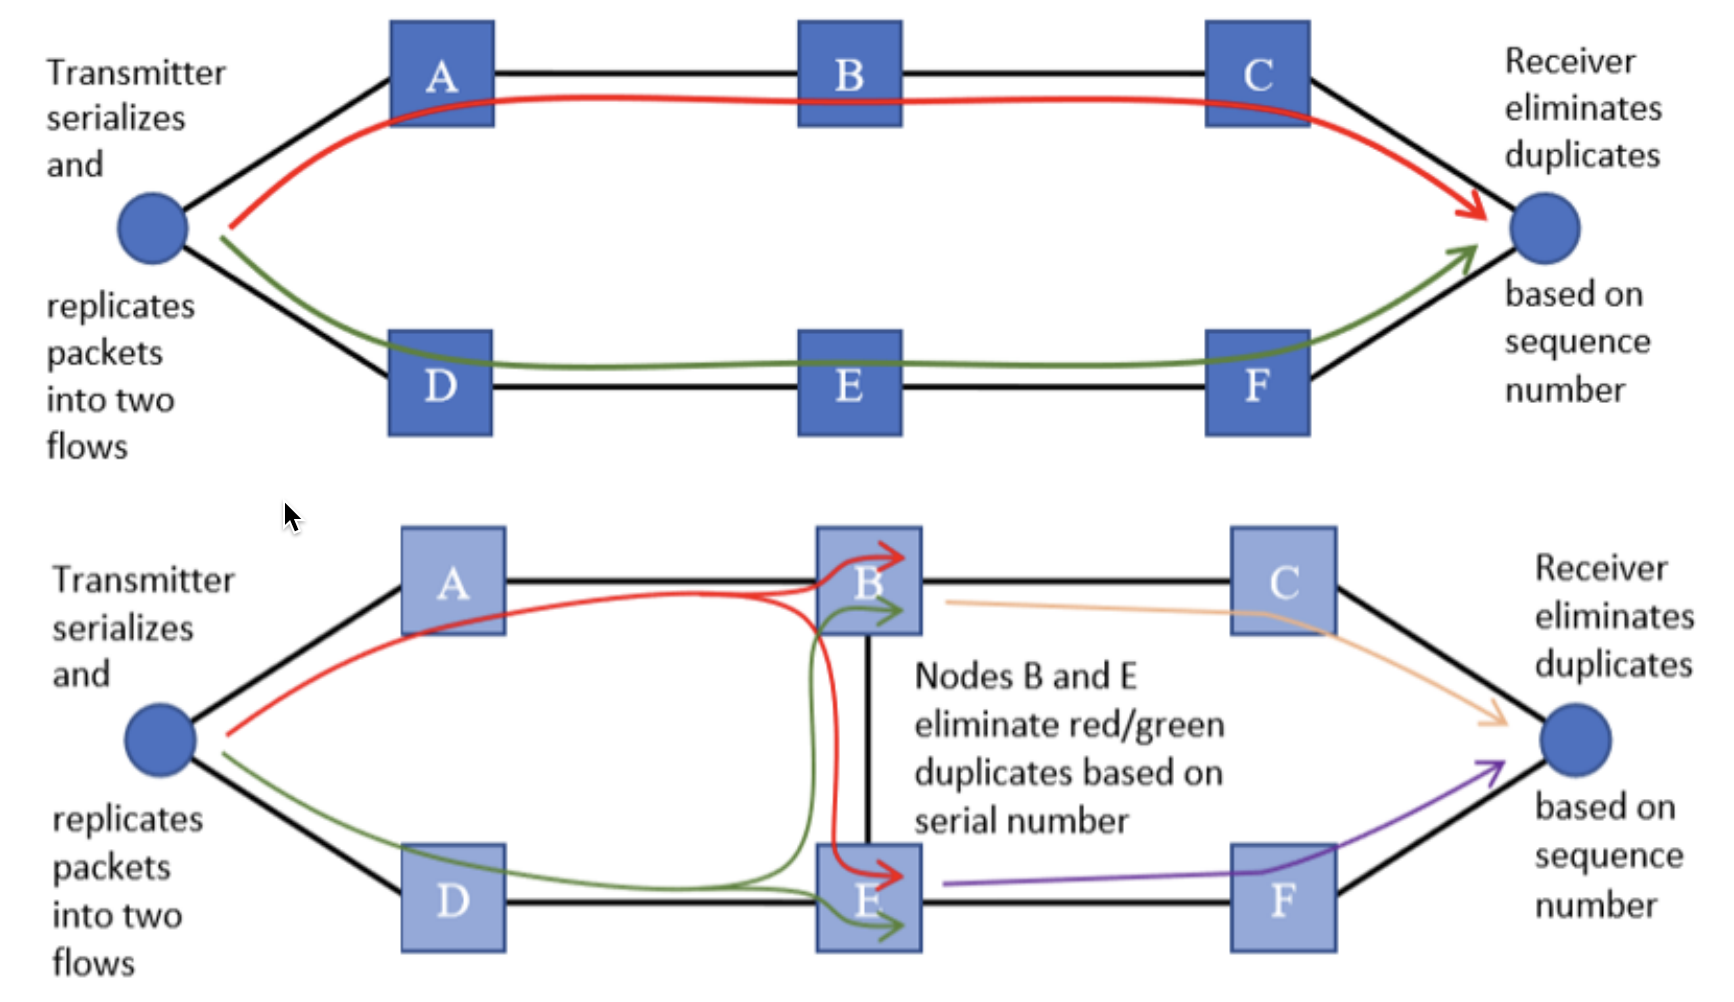
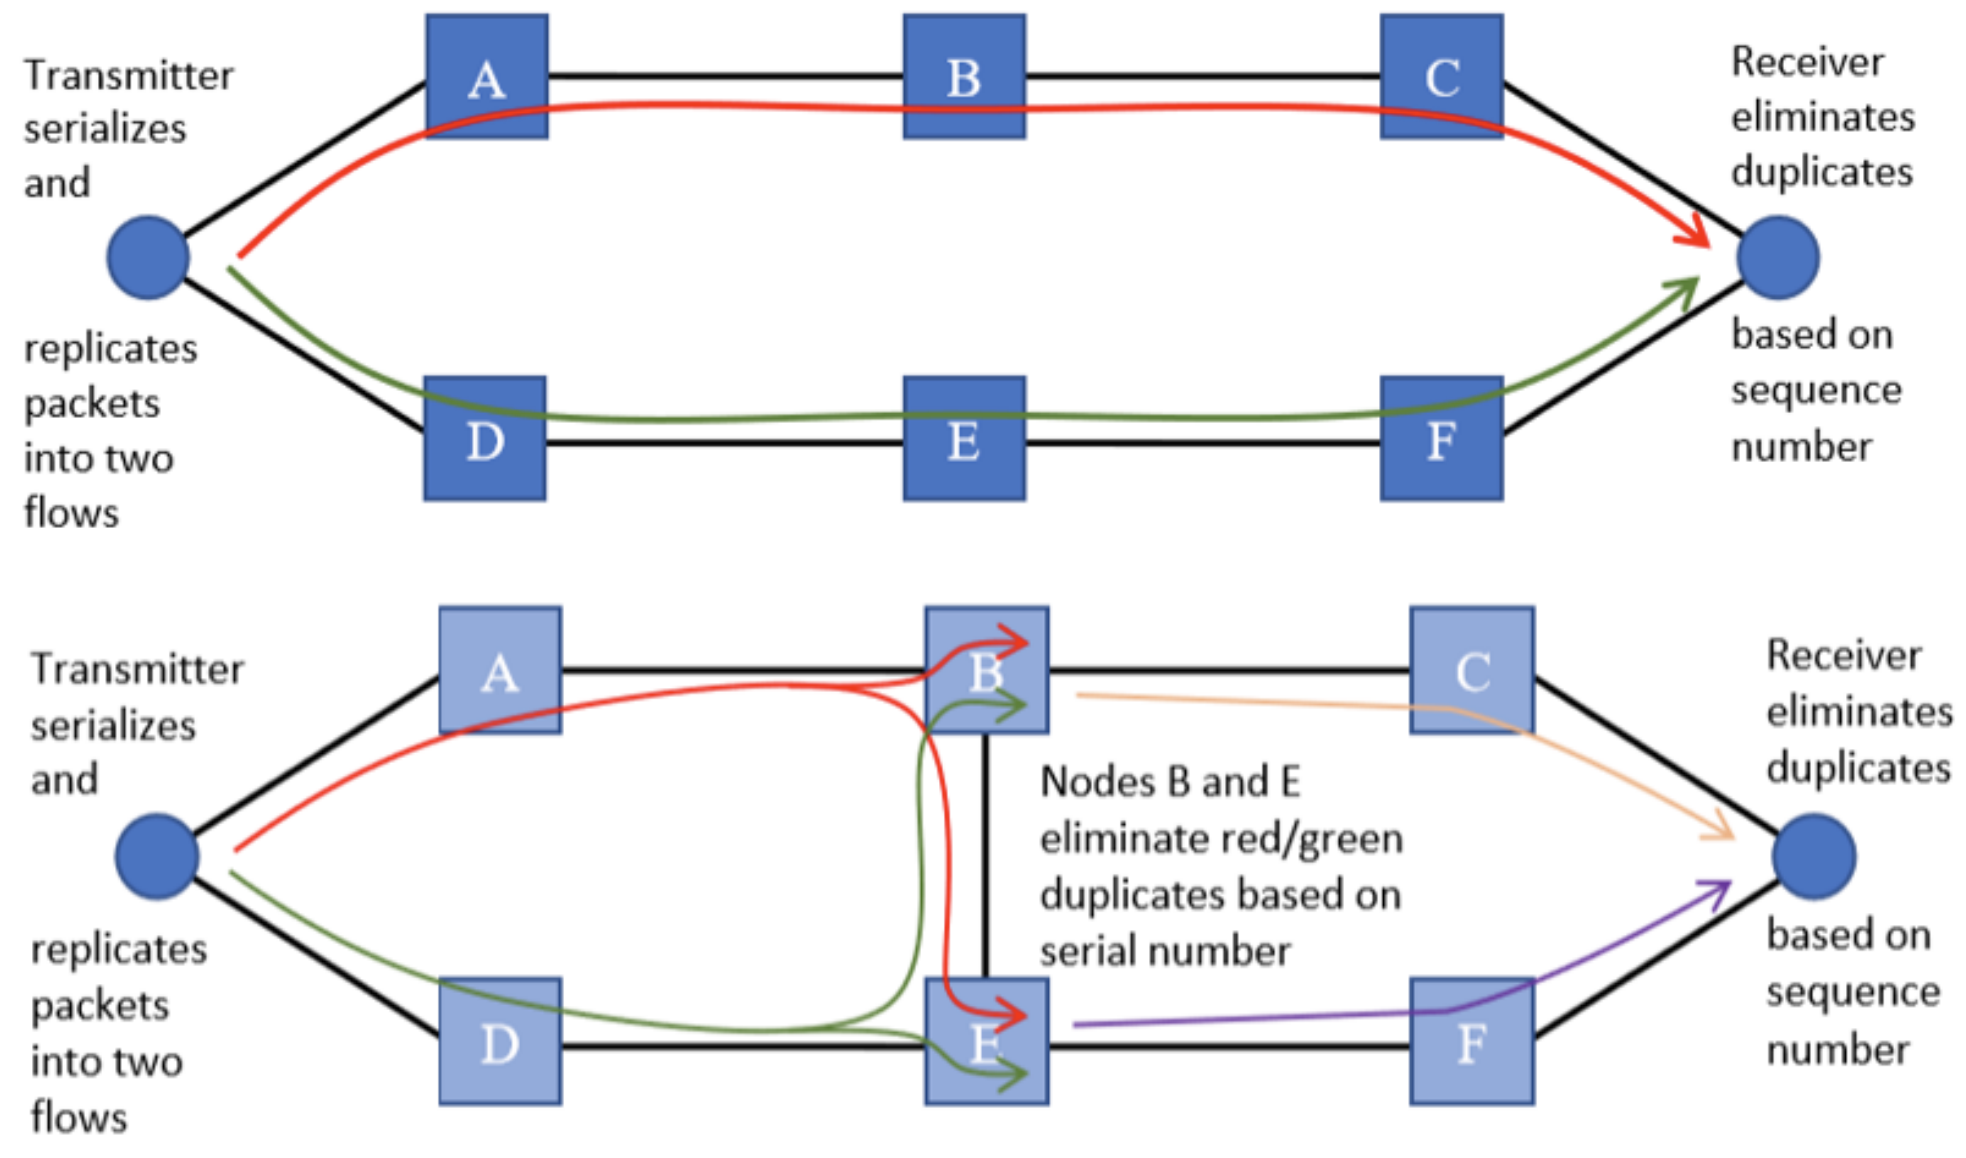
updates images

diff --git a/detnet.tex b/detnet.tex
@@ -3,7 +3,7 @@
 \usepackage[acronyms]{glossaries}
 \usepackage{etoolbox}
 \usepackage{xurl}
-\usepackage{hyperref}
+\usepackage[hidelinks]{hyperref}
 \usepackage{graphicx}
 \usepackage{color}
 \usepackage{lipsum}
@@ -117,8 +117,8 @@ The limitations of the Internet's best-effort packet delivery service have been 
 
 \begin{figure}[ht]
   \centering
-  \includegraphics[width=0.8\textwidth]{detnet_simple_arch}
-  \caption{Example of a \gls{detnet} architecture}{\cite{rfc8655}}
+  \includegraphics[width=0.7\textwidth]{detnet_simple_arch}
+  \captionsource{Example of a \gls{detnet} architecture}{\url{https://www.comsoc.org/publications/ctn/quick-and-dead-rise-deterministic-networks} \& RFC8655\cite{rfc8655}}
   \label{fig:detnet-architecture}
 \end{figure}
 
@@ -205,9 +205,9 @@ One of the fundamental requirements for deterministic networking is clock synchr
 \subsection*{Time Aware Shaper (IEEE 802.1Qbv)}
 Another key technology for deterministic networking is the \gls{tas}, which is a traffic shaping mechanism that ensures that data is transmitted at the correct time. In a time-triggered network, data must be transmitted in fixed time slots to ensure that it arrives at its destination on time. \gls{tas} enforces this requirement by shaping traffic according to a predefined schedule, which is determined by the network topology and traffic patterns. As Figure~\ref{fig:tas} shows, the \gls{tas} opens and closes queues with differently classed traffic based on time and the gate control list. By using \gls{tas}, deterministic networking can provide low-latency, high-reliability communication for a variety of applications.
 
-\begin{figure}
+\begin{figure}[ht]
   \centering
-  \includegraphics[width=\linewidth]{tas}
+  \includegraphics[width=0.8\linewidth]{tas}
   \captionsource{Time Aware Shaper Diagram}{Kellermeier et al.~\cite{Kellermeier2018}}
   \label{fig:tas}
 \end{figure}
@@ -215,7 +215,7 @@ Another key technology for deterministic networking is the \gls{tas}, which is a
 \subsection*{Frame Preemption (IEEE 802.1Qbu)}
 Another important \gls{tsn} feature is frame preemption, which allows high-priority traffic to interrupt and preempt lower-priority traffic in real-time. This ensures that critical messages are delivered without delay, even in congested network conditions. Frame Preemption works by inserting a special message, called a preemption frame, into the network that signals the lower-priority traffic to pause transmission and allows the high-priority traffic to be transmitted immediately. Figure~\ref{fig:fpem} shows how frame preemption allows time-critical traffic to be transmitted immediately, thus lowering its perceived latency. This feature is particularly useful in industrial automation and control systems, where real-time communication is essential for safety and efficiency.
 
-\begin{figure}
+\begin{figure}[ht]
   \centering
   \includegraphics[width=\linewidth]{frame_preemption}
   \captionsource{Frame Preemption Diagram}{\url{https://cn.marvell.com/blogs/2022/11/tsn-and-prestera-dx1500-a-bridge-across-the-it-ot-divide/}}
@@ -225,10 +225,10 @@ Another important \gls{tsn} feature is frame preemption, which allows high-prior
 \subsection*{Frame Replication and Elimination for Reliability (IEEE 802.1CB)}
 \gls{frer} is a \gls{tsn} feature that provides redundancy for critical traffic (see Figure~\ref{fig:frer}). It works by replicating critical messages and sending them over multiple paths to ensure that at least one copy reaches its destination. If a message is lost or corrupted on one path, it can be recovered from another path. This feature is particularly useful in industrial automation and control systems, where reliability is essential for safety and efficiency.
 
-\begin{figure}
+\begin{figure}[ht]
   \centering
-  \includegraphics[width=\linewidth]{frer}
-  \captionsource{Mechanisms of packet replication and elimination}{Yang et al.~\cite{Yang2019}}
+  \includegraphics[width=0.8\linewidth]{frer}
+  \captionsource{Mechanisms of frame replication and elimination}{Yang et al.~\cite{Yang2019}}
   \label{fig:frer}
 \end{figure}
 
